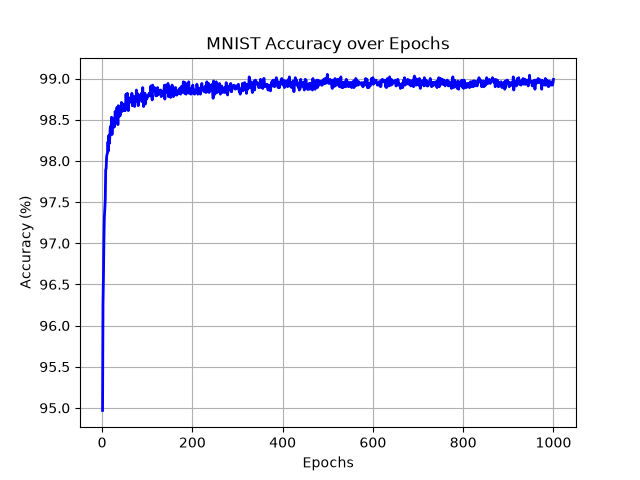
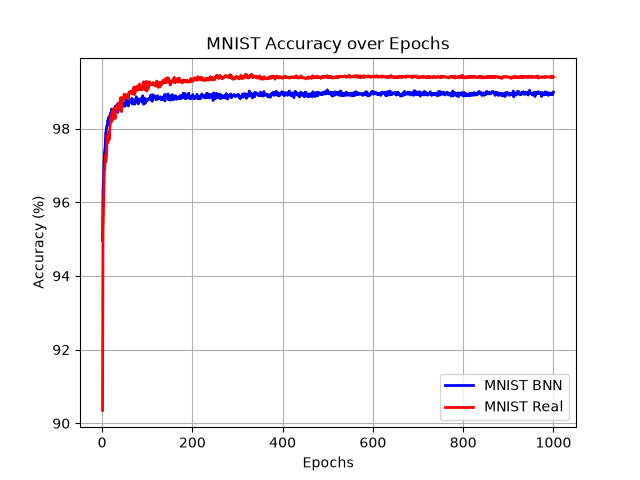
added mnist accuracy plot

diff --git a/BNN Implementation/accuracy_plot.py b/BNN Implementation/accuracy_plot.py
@@ -1,14 +1,14 @@
 import torch
 import matplotlib.pyplot as plt
 
-acc = torch.load('cifar_accuracy.pt')
-acc_real = torch.load('cifar_real_accuracy.pt')
+acc = torch.load('mnist_conv_accuracy.pt')
+acc_real = torch.load('mnist_real_conv_accuracy.pt')
 x = range(1, len(acc) + 1)
-plt.plot(x, [a*100 for a in acc], linewidth=2, color='blue', label='CIFAR-10 BNN')
-plt.plot(x, [a*100 for a in acc_real], linewidth=2, color='red', label='CIFAR-10 Real')
-plt.title('CIFAR-10 Accuracy over Epochs')
+plt.plot(x, [a*100 for a in acc], linewidth=2, color='blue', label='MNIST BNN')
+plt.plot(x, [a*100 for a in acc_real], linewidth=2, color='red', label='MNIST Real')
+plt.title('MNIST (Convolutional) Accuracy over Epochs')
 plt.xlabel('Epochs')
 plt.ylabel('Accuracy (%)')
 plt.grid()
 plt.legend()
-plt.savefig('cifar_accuracy.png')
+plt.savefig('mnist_conv_accuracy.png')
